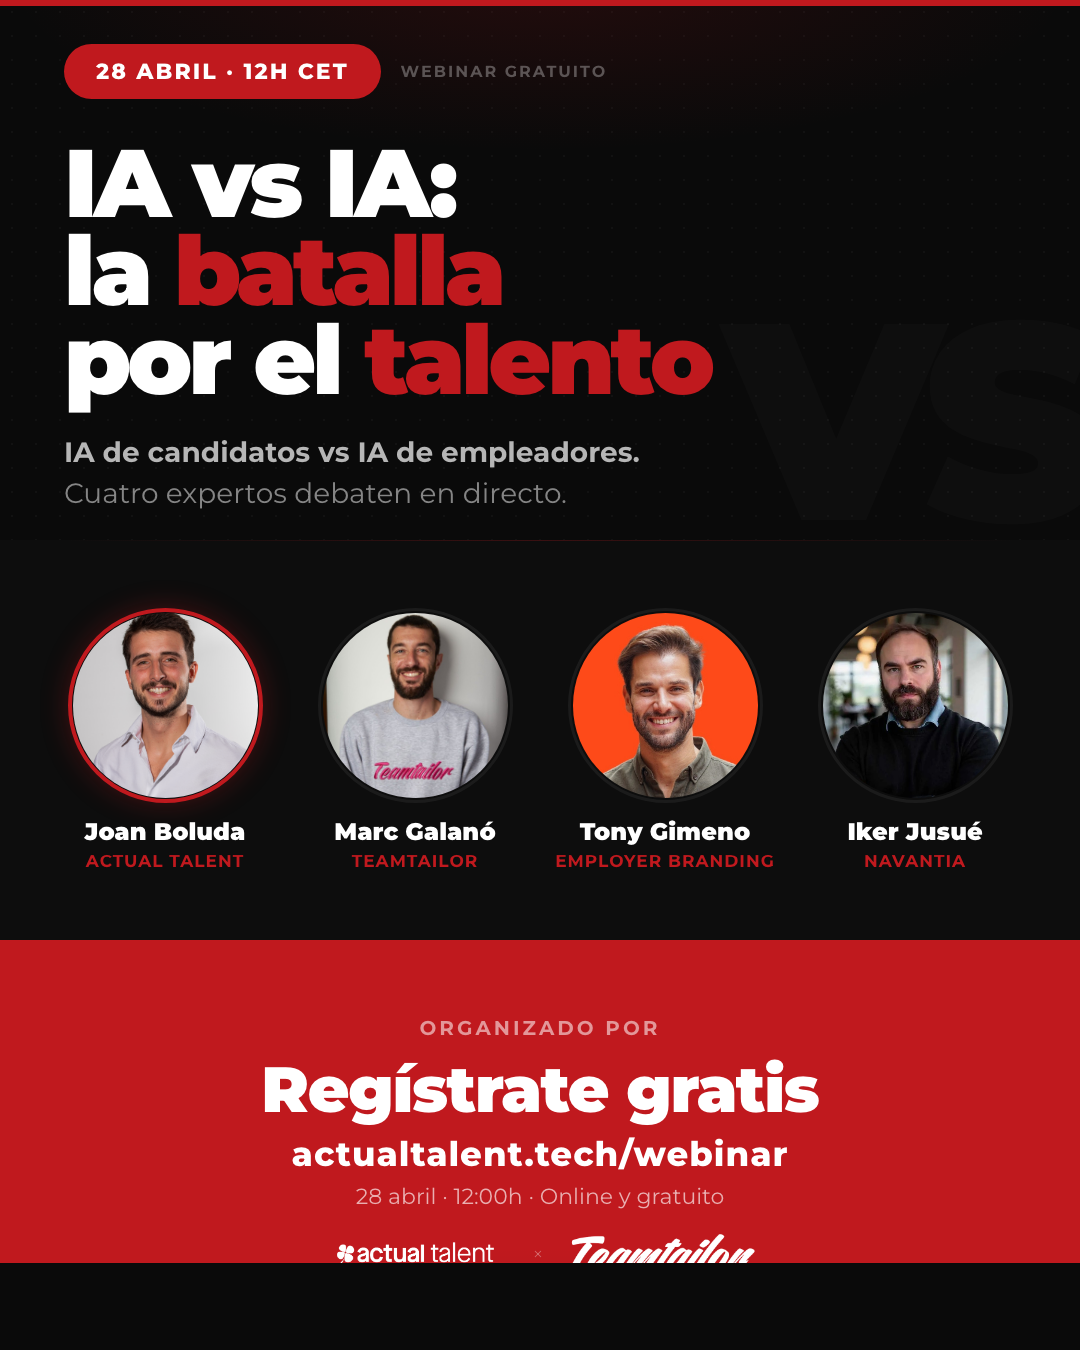
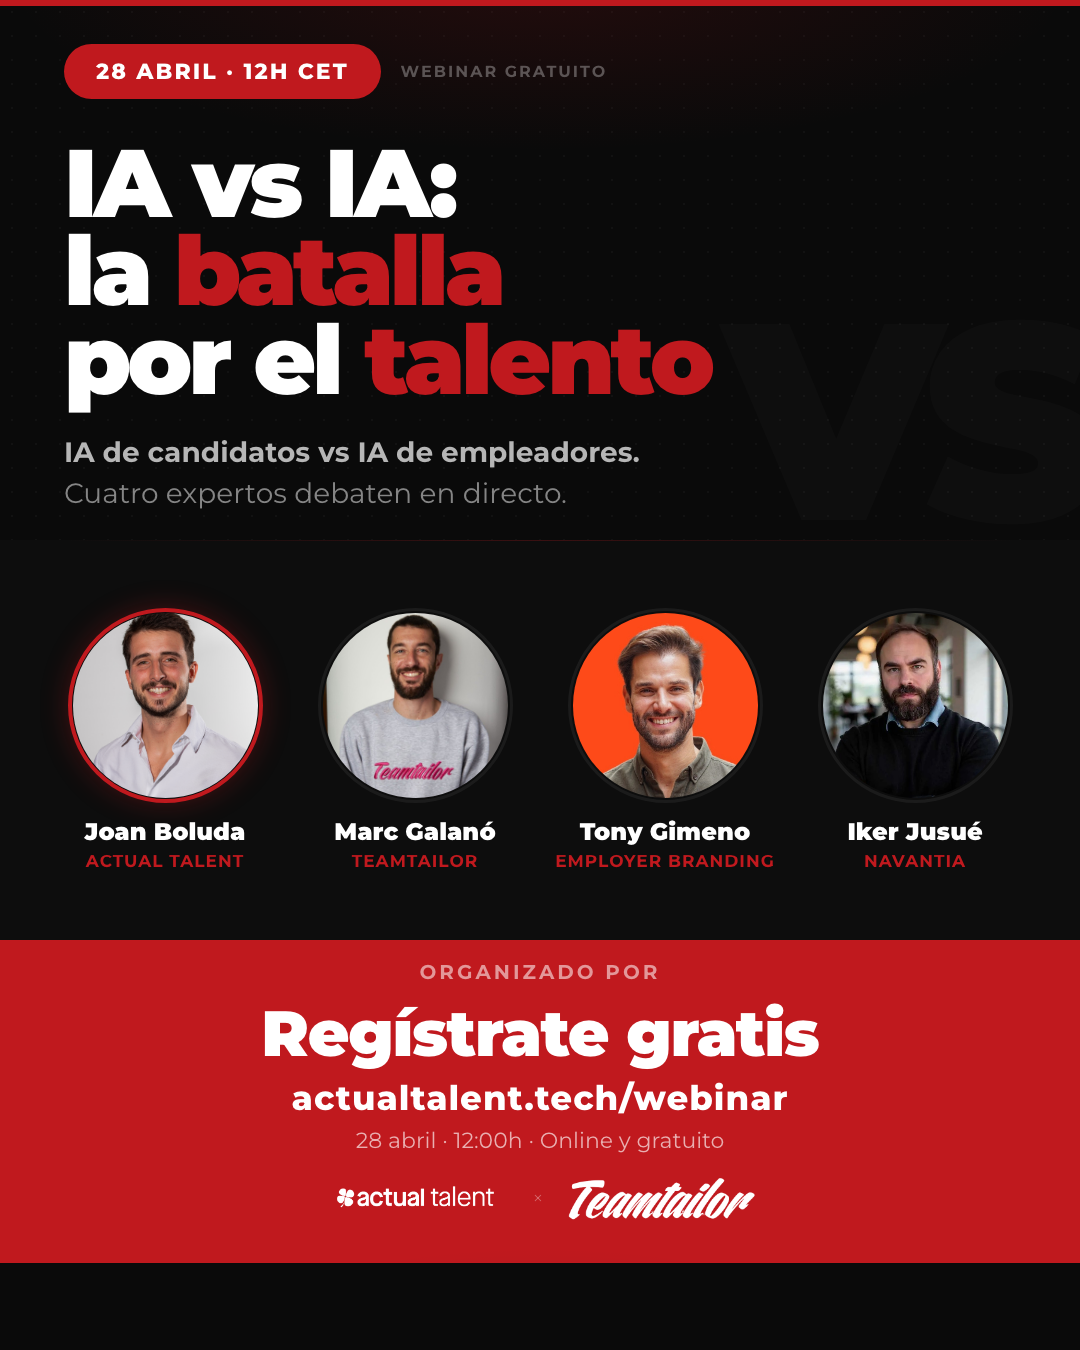
fix: CTA content aligned to top of red band

Changed region(s): [[0.2444, 0.7156, 0.7639, 0.9333]]

diff --git a/webinar/flyer/index.html b/webinar/flyer/index.html
@@ -147,9 +147,9 @@ body {
   flex: 0 0 410px;
   background: #C0191E;
   display: flex; flex-direction: column;
-  align-items: center; justify-content: center;
+  align-items: center; justify-content: flex-start;
   text-align: center;
-  padding: 28px 64px 24px;
+  padding: 20px 64px 32px;
   position: relative;
 }
 .cta-bar::before {
